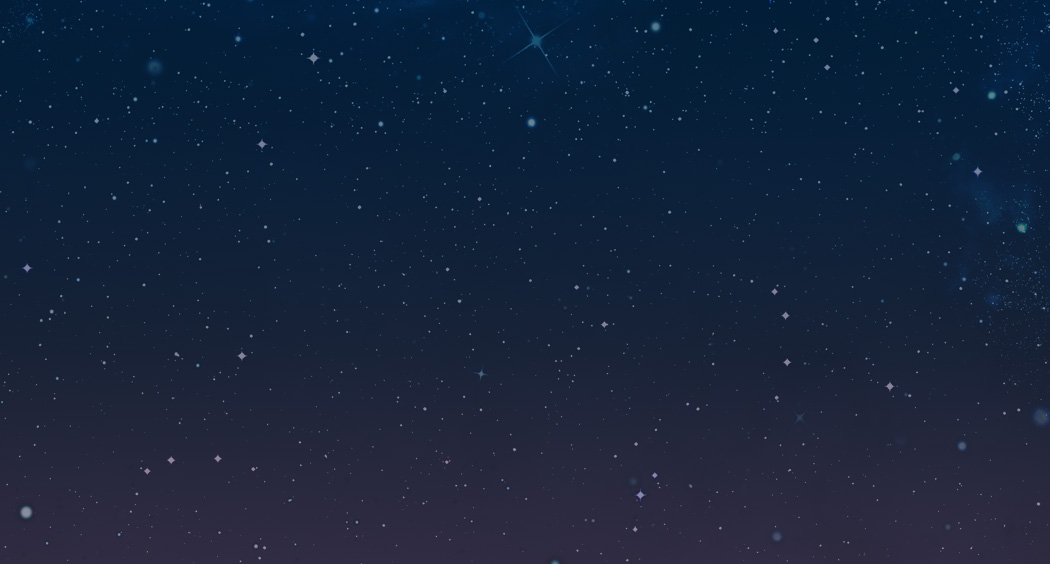
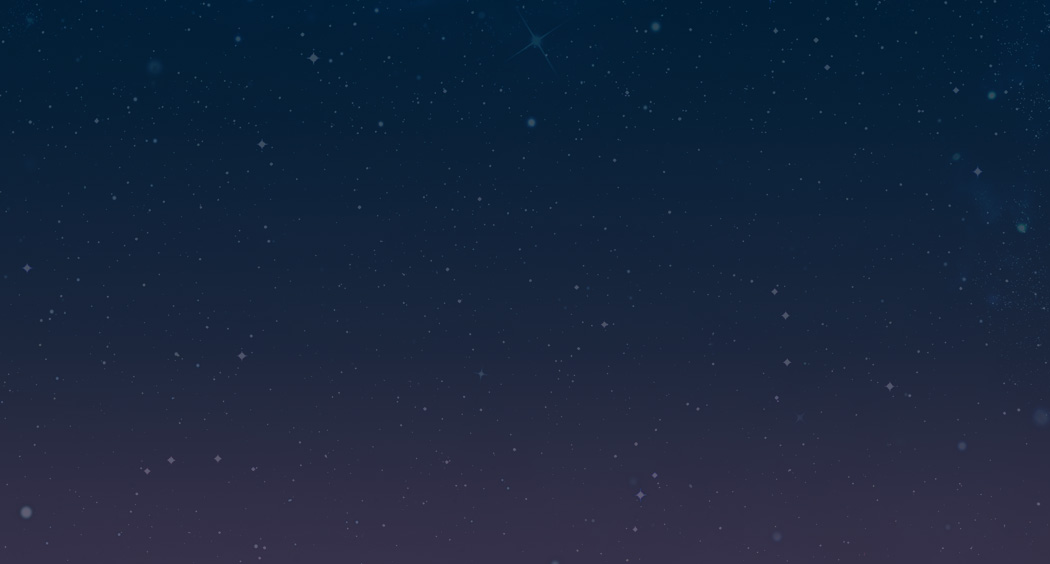
Change background based on time of the day

diff --git a/src/app.js b/src/app.js
@@ -1,5 +1,5 @@
 //*****---- Function - Display Current Date and Time ----*****//
-//-----------------------------------------------------------//
+
 function dateTime(currDate) {
   let days = [
     "Sunday",
@@ -36,12 +36,7 @@ function dateTime(currDate) {
   return `<i class="fa-solid fa-calendar-days"></i>  ${day}, ${month} ${date}  <i class="fas fa-clock"></i> ${hours}:${minutes}`;
 }
 
-let existingDate = document.querySelector("#curr-date");
-let currDate = new Date();
-existingDate.innerHTML = dateTime(currDate);
-
-//*****---- Function - Display convert Celsius to Fahrenheite ----*****//
-//--------------------------------------------------------------------//
+//*****---- Function - Convert Celsius to Fahrenheite ----*****//
 
 function displayFahrenhiteDegree(event) {
   event.preventDefault();
@@ -58,22 +53,13 @@ function displaycelsiusDegree(event) {
   event.preventDefault;
   // add active class to celcuis
   celsiusLink.classList.add("active");
-  // remove active class from celcuis
+  // remove active class from fahrenhite
   fahrenhiteLink.classList.remove("active");
   let temperatureElement = document.querySelector("#current-weather");
   temperatureElement.innerHTML = Math.round(celsiusTemperature);
 }
 
-let celsiusTemperature = null;
-
-let fahrenhiteLink = document.querySelector("#fahrenheit-degree");
-fahrenhiteLink.addEventListener("click", displayFahrenhiteDegree);
-
-let celsiusLink = document.querySelector("#celsius-degree");
-celsiusLink.addEventListener("click", displaycelsiusDegree);
-
-//*****---- Function - Display City Temprature + Weather Details ----*****//
-//-----------------------------------------------------------------------//
+//*****---- Function - Display Current City Temprature + Weather Details ----*****//
 
 function showTemperature(response) {
   let temperatureElement = document.querySelector("#current-weather");
@@ -82,7 +68,6 @@ function showTemperature(response) {
   let descriptionElement = document.querySelector("#weather-description");
   let humidityElement = document.querySelector("#humidity");
   let windElement = document.querySelector("#wind");
-  // let dateElement = document.querySelector("#date");
   let feelsLikeElement = document.querySelector("#feels-like");
   let iconElement = document.querySelector("#curr-weather-icon");
 
@@ -95,7 +80,6 @@ function showTemperature(response) {
   humidityElement.innerHTML = response.data.main.humidity;
   windElement.innerHTML = Math.round(response.data.wind.speed * 3.6);
   feelsLikeElement.innerHTML = Math.round(response.data.main.feels_like);
-  // dateElement.innerHTML = formatDate(response.data.dt * 1000);
   iconElement.setAttribute(
     "src",
     `http://openweathermap.org/img/wn/${response.data.weather[0].icon}@2x.png`
@@ -104,7 +88,6 @@ function showTemperature(response) {
 }
 
 //*****---- Function - Display Searched City Name ---> Show Searched City Temperature ----*****//
-//--------------------------------------------------------------------------------------------//
 
 // *** spliting the search and the city name so we can have a default city appear on load *** //
 // function searched city will receive a city --> will make an API call --> Display said city's temperature
@@ -124,15 +107,7 @@ function handleSubmit(event) {
   searchCity(cityName);
 }
 
-let newCity = document.querySelector("#search-form");
-newCity.addEventListener("submit", handleSubmit);
-
-// searchedCity is doing the search on load and displaying the weather for NewYork which is the default city //
-
-searchCity("Toronto");
-
-//*****---- Function - Display Current Location ----*****//
-//------------------------------------------------------//
+//*****---- Function - Display Current Location based on geolocation ----*****//
 
 function showPosition(position) {
   let apiKey = "5f472b7acba333cd8a035ea85a0d4d4c";
@@ -141,41 +116,45 @@ function showPosition(position) {
   let lon = position.coords.longitude;
   let url = `https://api.openweathermap.org/data/2.5/weather?&lat=${lat}&lon=${lon}&units=${units}&appid=${apiKey}`;
   axios.get(url).then(showTemperature);
-  // axios.get(url).then(showCurrentLocation);
 }
 
 function getCurrentPosition() {
   navigator.geolocation.getCurrentPosition(showPosition);
 }
 
+// Golbal Variables //
+
+let existingDate = document.querySelector("#curr-date");
+let currDate = new Date();
+existingDate.innerHTML = dateTime(currDate);
+
+let newCity = document.querySelector("#search-form");
+newCity.addEventListener("submit", handleSubmit);
+
+searchCity("Toronto");
+
 let button = document.querySelector("#current-location");
 button.addEventListener("click", getCurrentPosition);
 
+let celsiusTemperature = null;
+
+let fahrenhiteLink = document.querySelector("#fahrenheit-degree");
+fahrenhiteLink.addEventListener("click", displayFahrenhiteDegree);
+
+let celsiusLink = document.querySelector("#celsius-degree");
+celsiusLink.addEventListener("click", displaycelsiusDegree);
+
 //*****---- Function - Change Background according to hour ----*****//
-//---------------------------------------------------------//
 
-// let day = new Date();
-// let currentTime = day.getHours();
-// let images = document.getElementById("bkgroundimg");
-// function changeBackground() {
-//   if (9 <= currentTime && currentTime < 18) {
-//     images.src = "/images/9am -6pm.jpg";
-//   }
-//   if (18 <= currentTime && currentTime < 21) {
-//     images.src = "/images/6pm -8pm.jpg";
-//   }
-//   if (21 <= currentTime && currentTime < 5) {
-//     images.src = "/images/8pm.jpg";
-//   }
-// }
-// changeBackground();
-
-// function changeBackground() {
-//   let day = new Date();
-//   let currentTime = day.getHours();
-//   let images = document.querySelector("#bkgroundimg");
-//   if (18 <= currentTime && currentTime < 23) {
-//     images.setAttribute("src", `images/5am-9am.jpg`);
-//   }
-// }
-// changeBackground();
+let images = document.querySelector("#bkgroundimg");
+function changeBackground() {
+  if (5 <= currDate && currDate < 9) {
+    images.setAttribute("src", `images/5am - 9am.jpg`);
+  }
+  if (9 <= currDate && currDate < 18) {
+    images.setAttribute("src", `images/9am - 6pm.jpg`);
+  } else {
+    images.setAttribute("src", `images/8pm.jpg`);
+  }
+}
+changeBackground();

diff --git a/index.html b/index.html
@@ -40,7 +40,7 @@
             <img
               id="bkgroundimg"
               class="backgroundimg"
-              src="/images/6pm - 8pm.jpg"
+              src=""
               alt="background-img"
             />
           </div>
